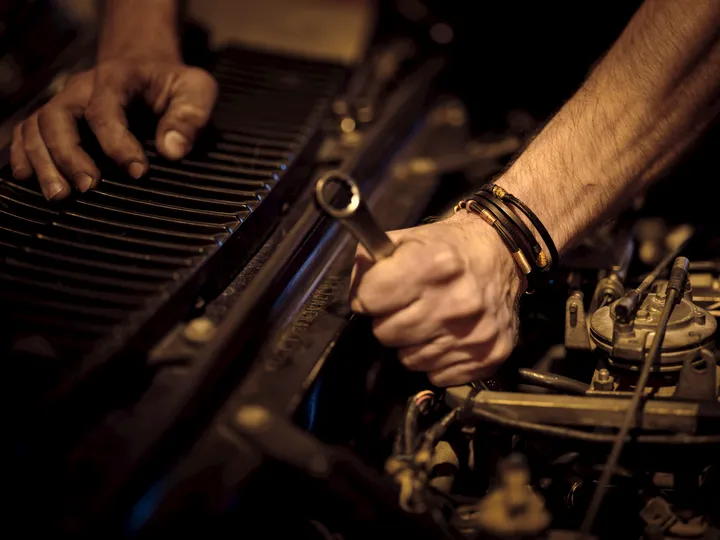
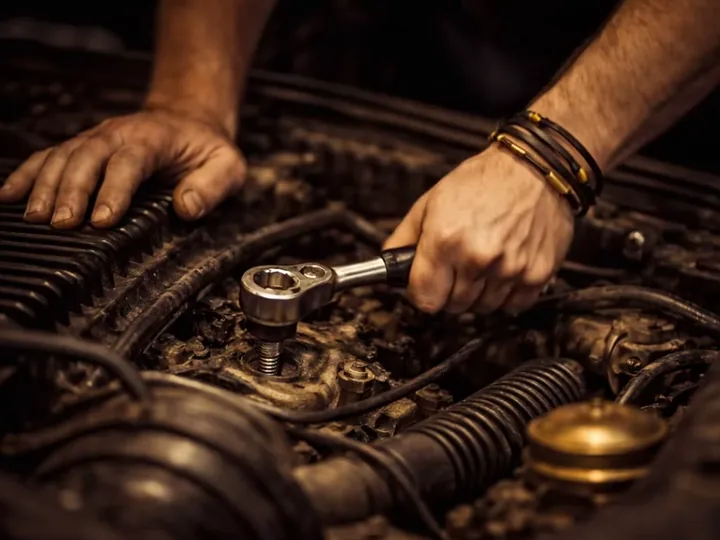
Add video poster support and optimize loading for mobile devices
- Updated index.html and ru/index.html to include a poster attribute for the hero video element, improving user experience on mobile devices.
- Enhanced JavaScript to dynamically set the video poster based on screen width.
- Modified optimize_lcp_mobile.js to include the poster attribute in the video replacement logic.
- Updated hero image assets (hero-desktop.webp and hero-mobile.webp) to improve visual quality.
- Added firebase-debug.log to track emulator startup and API interactions.

diff --git a/index.html b/index.html
@@ -526,7 +526,7 @@
                         fetchpriority="high" width="720" height="540">
                 </picture>
                 <!-- Video overlay — fades in when ready, no blocking -->
-                <video id="heroVideo" muted loop playsinline preload="none"
+                <video id="heroVideo" muted loop playsinline preload="none" poster="/pics/hero-mobile.webp"
                     aria-label="Cinematic close-up of a mechanic tightening a bolt with a ratchet wrench under the hood"
                     title="Mechanic working under the hood" oncanplay="this.style.opacity=1">
                     <!-- sources load via JS purely to save LCP bandwidth -->
@@ -1718,6 +1718,7 @@
         document.addEventListener("DOMContentLoaded", function () {
             var v = document.getElementById("heroVideo");
             if (v) {
+                v.poster = window.innerWidth < 768 ? '/pics/hero-mobile.webp' : '/pics/hero-desktop.webp';
                 var delay = window.innerWidth < 768 ? 3000 : 0;
                 setTimeout(function () {
                     v.innerHTML = '<source src="/video/master_ratchet_vp9_crf28.webm" type="video/webm"><source src="/video/master_ratchet_h264_crf28.mp4" type="video/mp4">';

diff --git a/en/index.html b/en/index.html
@@ -323,7 +323,7 @@
                     fetchpriority="high" width="720" height="540">
             </picture>
             <!-- Video overlay — fades in when ready, no blocking -->
-            <video id="heroVideo" muted loop playsinline preload="none"
+            <video id="heroVideo" muted loop playsinline preload="none" poster="/pics/hero-mobile.webp"
                 aria-label="Cinematic close-up of a mechanic tightening a bolt with a ratchet wrench under the hood"
                 title="Mechanic working under the hood" oncanplay="this.style.opacity=1">
                     <!-- sources load via JS purely to save LCP bandwidth -->
@@ -1116,6 +1116,7 @@
         document.addEventListener("DOMContentLoaded", function () {
             var v = document.getElementById("heroVideo");
             if (v) {
+                v.poster = window.innerWidth < 768 ? '/pics/hero-mobile.webp' : '/pics/hero-desktop.webp';
                 var delay = window.innerWidth < 768 ? 3000 : 0;
                 setTimeout(function () {
                     v.innerHTML = '<source src="/video/master_ratchet_vp9_crf28.webm" type="video/webm"><source src="/video/master_ratchet_h264_crf28.mp4" type="video/mp4">';

diff --git a/ru/index.html b/ru/index.html
@@ -335,7 +335,7 @@
                     fetchpriority="high" width="720" height="540">
             </picture>
             <!-- Video overlay — fades in when ready, no blocking -->
-            <video id="heroVideo" muted loop playsinline preload="none"
+            <video id="heroVideo" muted loop playsinline preload="none" poster="/pics/hero-mobile.webp"
                 aria-label="Cinematic close-up of a mechanic tightening a bolt with a ratchet wrench under the hood"
                 title="Mechanic working under the hood" oncanplay="this.style.opacity=1">
                     <!-- sources load via JS purely to save LCP bandwidth -->
@@ -1070,6 +1070,7 @@
         document.addEventListener("DOMContentLoaded", function () {
             var v = document.getElementById("heroVideo");
             if (v) {
+                v.poster = window.innerWidth < 768 ? '/pics/hero-mobile.webp' : '/pics/hero-desktop.webp';
                 var delay = window.innerWidth < 768 ? 3000 : 0;
                 setTimeout(function () {
                     v.innerHTML = '<source src="/video/master_ratchet_vp9_crf28.webm" type="video/webm"><source src="/video/master_ratchet_h264_crf28.mp4" type="video/mp4">';

diff --git a/optimize_lcp_mobile.js b/optimize_lcp_mobile.js
@@ -26,7 +26,7 @@ files.forEach(file => {
 
     // Check if hasn't been replaced yet
     if (videoRegex.test(content)) {
-        const replacementVideo = `<video id="heroVideo" muted loop playsinline preload="none"$1>
+        const replacementVideo = `<video id="heroVideo" muted loop playsinline preload="none" poster="/pics/hero-mobile.webp"$1>
                     <!-- sources load via JS purely to save LCP bandwidth -->
                 </video>`;
         content = content.replace(videoRegex, replacementVideo);
@@ -37,6 +37,7 @@ files.forEach(file => {
         document.addEventListener("DOMContentLoaded", function () {
             var v = document.getElementById("heroVideo");
             if (v) {
+                v.poster = window.innerWidth < 768 ? '/pics/hero-mobile.webp' : '/pics/hero-desktop.webp';
                 var delay = window.innerWidth < 768 ? 3000 : 0;
                 setTimeout(function () {
                     v.innerHTML = '<source src="/video/master_ratchet_vp9_crf28.webm" type="video/webm"><source src="/video/master_ratchet_h264_crf28.mp4" type="video/mp4">';
